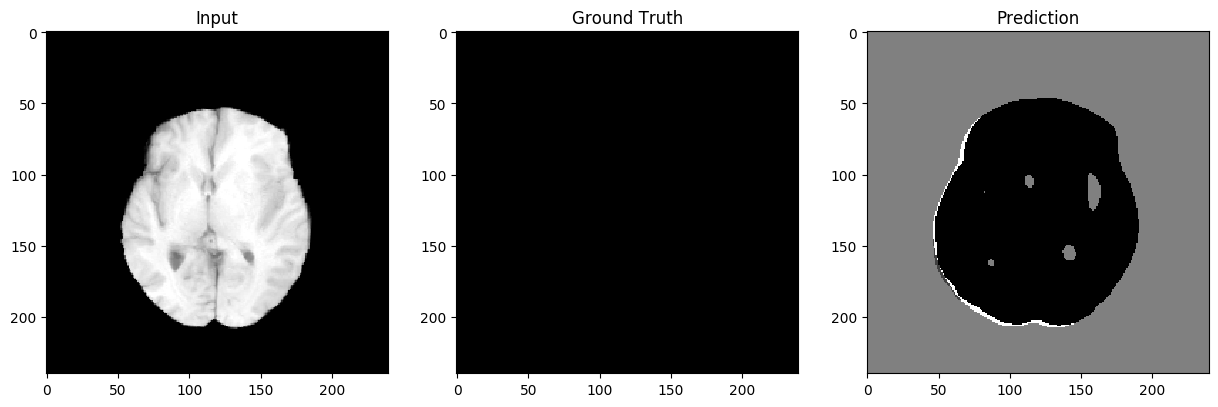
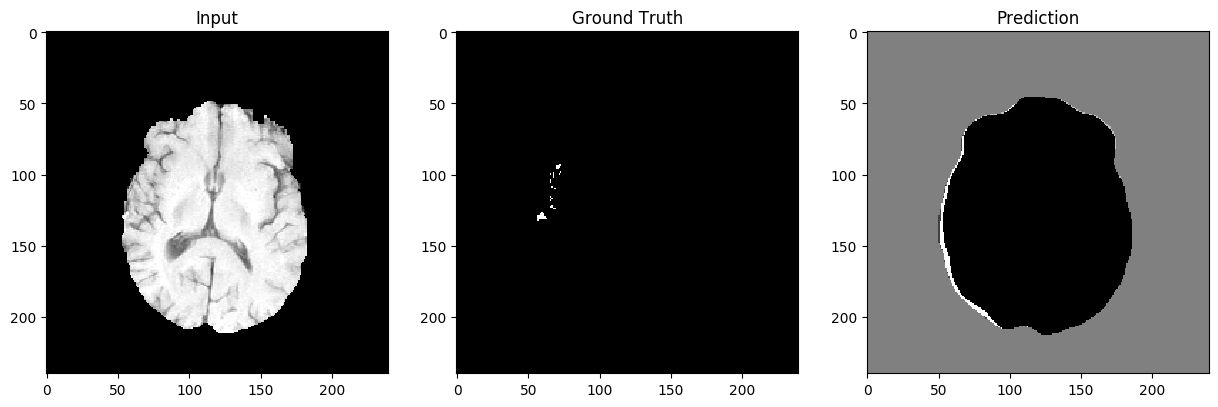
change

diff --git a/test.py b/test.py
@@ -25,7 +25,7 @@ with open('config.json') as config_file:
     config = json.load(config_file)
 root = config['root']
 
-patient_no = 200 
+patient_no = 205 
 slice_no = 70 
 
 
